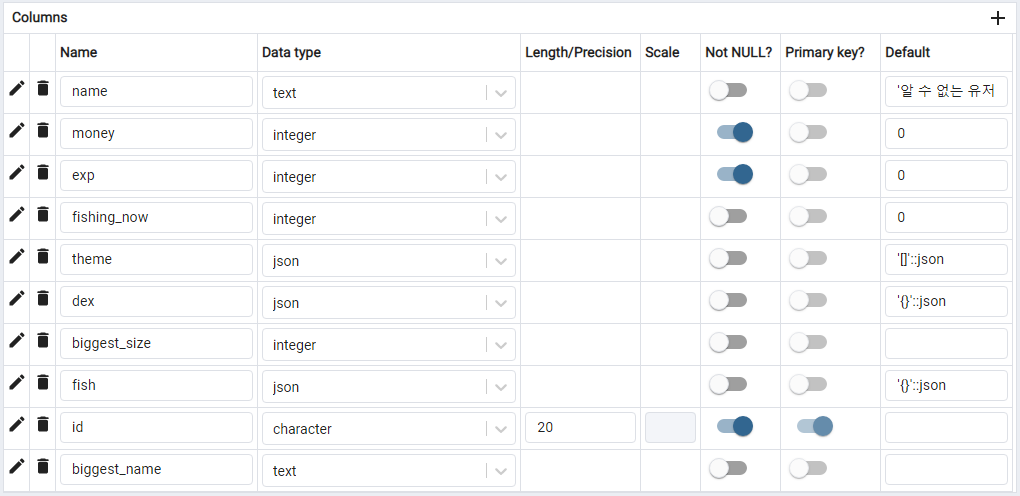
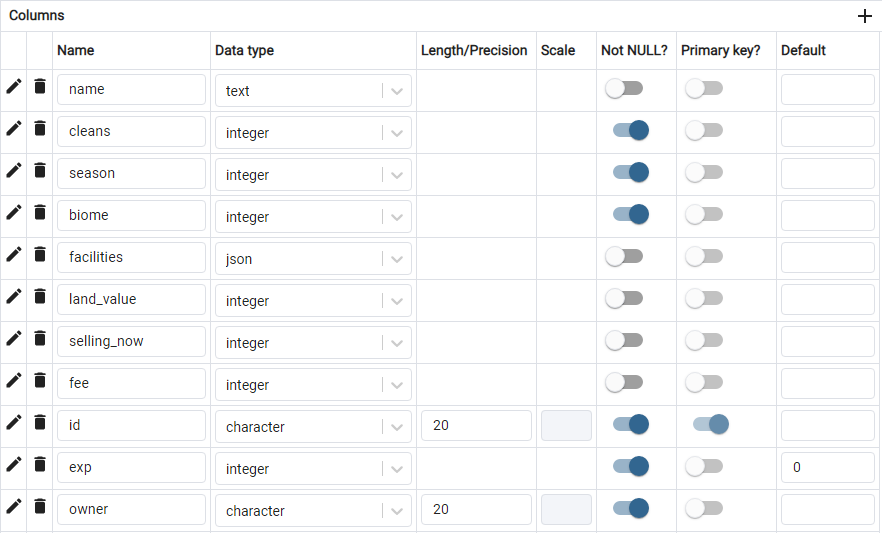
config.py.example 수정 db_rooms_example.png 수정 README 설명 수정

Changed region(s): [[0.0, 0.0, 1.0, 0.998], [0.949, 0.0, 1.0, 0.0605], [0.5816, 0.756, 0.6122, 0.7863]]

diff --git a/README.md b/README.md
@@ -2,6 +2,19 @@
 
 코딩을 대충 아시는 분들을 기준으로 설명해 두었습니다.
 
-1. requirements.txt의 요구사항을 설치한다. `pip install -r requirements.txt`
+1. requirements.txt의 요구사항을 설치합니다. `pip install -r requirements.txt`
 2. postgreSQL을 설치합니다.
-3. 데이터베이스를 셋업합니다. sql 파일 대신 이미지를 드리겠습니다 에헤.
+3. 데이터베이스를 셋업합니다. sql 파일 대신 이미지를 드리겠습니다.
+4. `config.py.example`에서 `.example`을 떼어 `config.py` 파일을 만든 후, 안에 필요한 내용을 적습니다.
+    - 봇 토큰, 데이터베이스 관련 항목을 입력하지 않을 경우 이프가 정상적으로 작동하지 않습니다.
+    - `ERROR_LOGGING_CHANNEL`은 이프에 오류가 발생했을 시 메시지를 띄울 채널 ID를 적으시면 됩니다. 물론 이프에게 메시지 쓰기 권한이 있는 채널이어야 합니다.
+    - `ANNOUNCE_CHANNEL`은 이프 뉴스(일일 랭킹)를 띄울 채널 ID를 적으시면 됩니다. 물론 이프에게 메시지 쓰기 권한이 있는 채널이어야 합니다.
+    - 낚시카드 서버를 입력하지 않을 경우에는 내부에서 낚시카드를 직접 만드므로 적지 않으셔도 됩니다.
+5. 구동할 때는 main.py를 실행하시면 됩니다. `python main.py`
+
+## 주의 및 안내사항
+
+-   `config.py`의 `debug` 옵션을 `True`로 설정할 경우에는 디버그 모드로 실행됩니다. 디버그 모드에서는 더욱 상세한 로그를 띄울 수 있습니다.
+-   `debug`를 켰을 때는 `DEBUG_TOKEN`을 통해 봇이 켜집니다.
+-   운영 중인 이프봇에 대한 기여만을 상정한 레포지토리로 이를 이용해 이프 사설 서버를 만들어 운영하는 것은 허용하지 않습니다.
+-   PR을 통해 기여해 주시면 관리자가 검토를 거쳐 이프에 추가하는 구조입니다.
